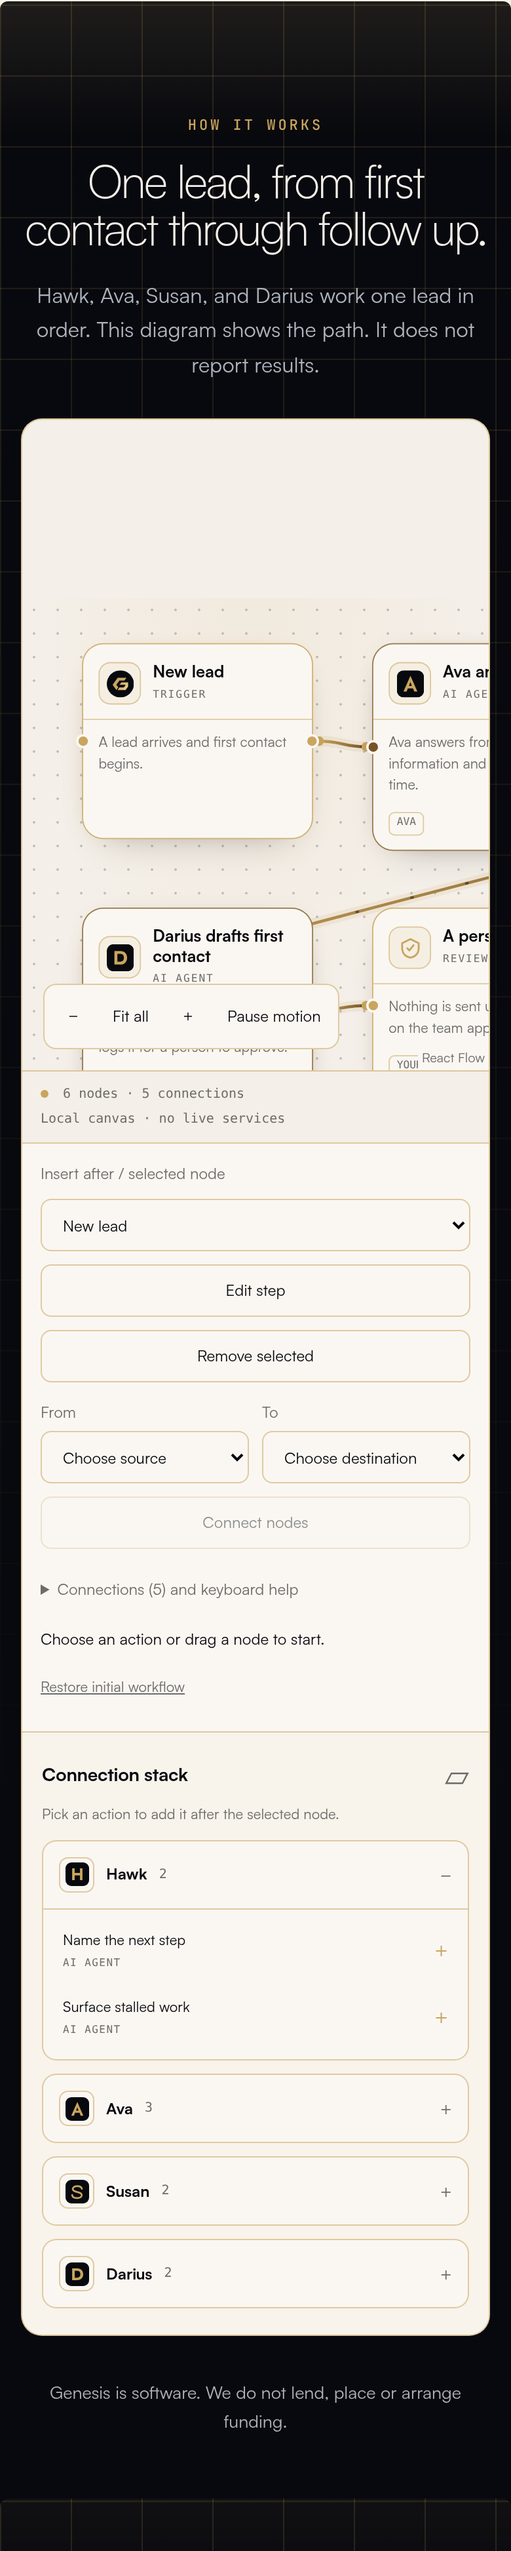
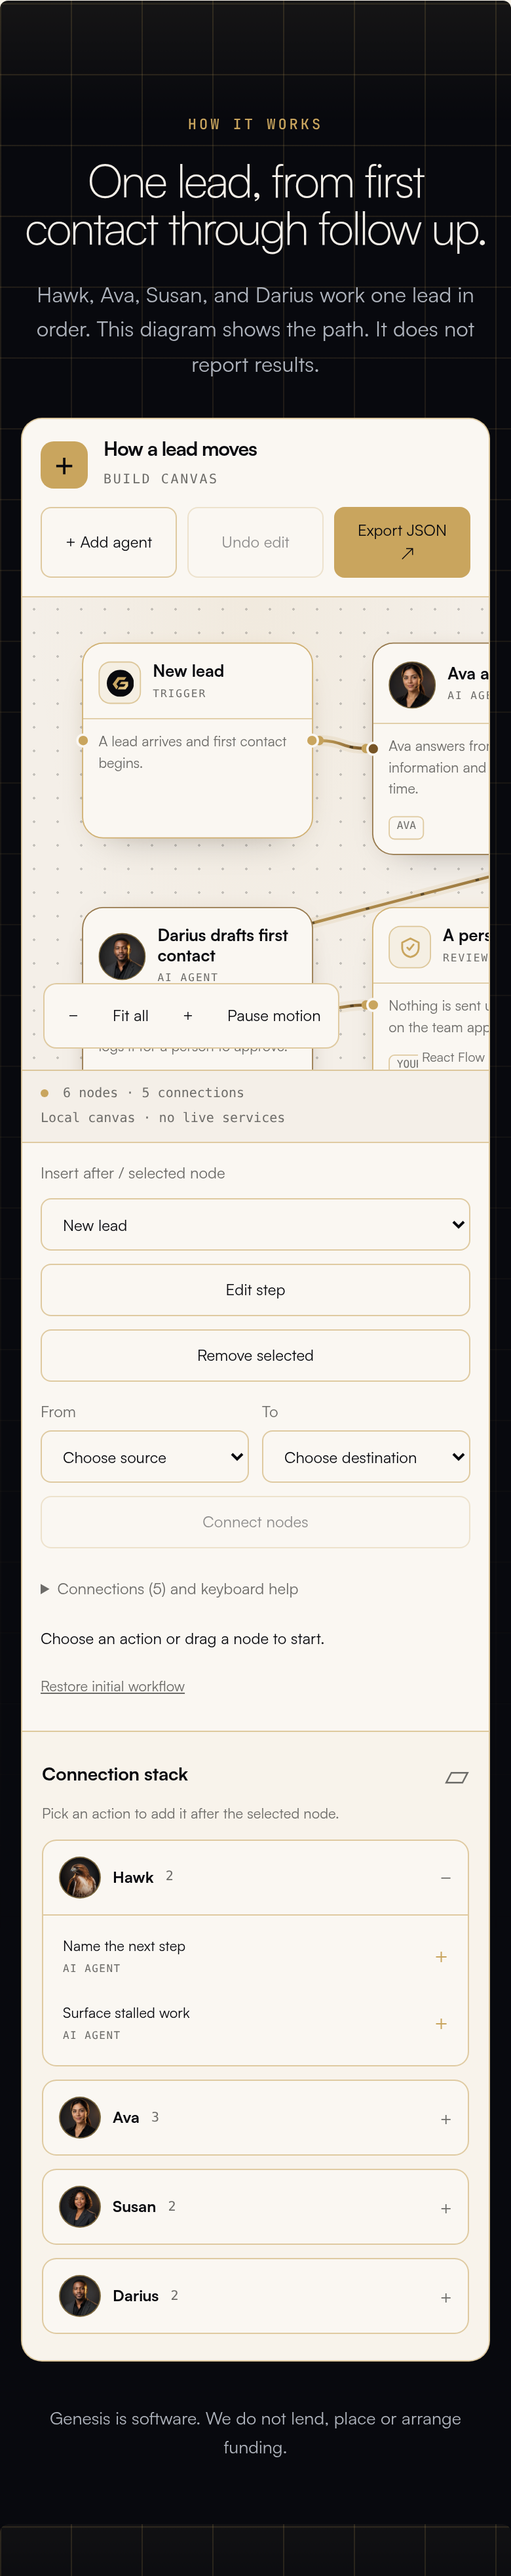
Show persona headshots on the lead workflow steps.
Replace the letter marks with round portraits of Hawk, Ava, Susan, and Darius, each with an accessible name. Shannon stays off this path because no step is hers.

diff --git a/components/ui/interactive-workflow-blueprint.tsx b/components/ui/interactive-workflow-blueprint.tsx
@@ -16,13 +16,16 @@ export interface WorkflowAction extends Record<string, unknown> {
   detail: string;
   kind: WorkflowKind;
   tool?: string;
-  /** Optional tool mark; it is decorative beside the text label. */
+  /** Optional tool mark beside the text label. */
   logo?: string;
+  /** Accessible name when the mark is a persona portrait. */
+  logoAlt?: string;
 }
 export interface WorkflowApp {
   id: string;
   name: string;
   logo?: string;
+  logoAlt?: string;
   actions: WorkflowAction[];
 }
 export type WorkflowNode = Node<WorkflowAction, "blueprint">;
@@ -52,12 +55,12 @@ const glyphs: Record<WorkflowKind, string> = {
   delivery: "M5 12h12M13 6l6 6-6 6",
 };
 
-function BrandMark({ src, fallback }: { src?: string; fallback: ReactNode }) {
+function BrandMark({ src, alt = "", fallback }: { src?: string; alt?: string; fallback: ReactNode }) {
   const [failed, setFailed] = useState(false);
   return src && !failed ? (
-    // Decorative beside the text label. A missing file falls back to the kind glyph.
+    // A portrait names the person. A plain mark stays decorative. A missing file falls back to the kind glyph.
     // eslint-disable-next-line @next/next/no-img-element
-    <img src={src} alt="" onError={() => setFailed(true)} />
+    <img src={src} alt={alt} className={alt ? "wb-avatar" : undefined} onError={() => setFailed(true)} />
   ) : fallback;
 }
 
@@ -65,7 +68,7 @@ function BlueprintNode({ data, selected }: NodeProps<WorkflowNode>) {
   return <div className="wb-node" data-kind={data.kind} data-selected={selected}>
     <Handle type="target" position={Position.Left} aria-label={`Input for ${data.label}`} />
     <div className="wb-node-head">
-      <span className="wb-glyph"><BrandMark key={data.logo} src={data.logo} fallback={<svg viewBox="0 0 24 24" fill="none" stroke="currentColor" strokeWidth="1.8" strokeLinecap="round" strokeLinejoin="round" aria-hidden="true"><path d={glyphs[data.kind]} /></svg>} /></span>
+      <span className="wb-glyph"><BrandMark key={data.logo} src={data.logo} alt={data.logoAlt} fallback={<svg viewBox="0 0 24 24" fill="none" stroke="currentColor" strokeWidth="1.8" strokeLinecap="round" strokeLinejoin="round" aria-hidden="true"><path d={glyphs[data.kind]} /></svg>} /></span>
       <div><strong>{data.label}</strong><small>{labels[data.kind]}</small></div>
     </div>
     <div className="wb-node-body"><p>{data.detail}</p>{data.tool && <span>{data.tool}</span>}</div>
@@ -323,8 +326,8 @@ export default function WorkflowBlueprint({ initialGraph, apps, title = "Workflo
         <div className="wb-stack-heading"><h3>Connection stack</h3><span aria-hidden="true">▱</span></div>
         <p>Pick an action to add it after the selected node.</p>
         {apps.map((app, index) => <details key={app.id} open={index === 0} className="wb-app">
-          <summary><span className="wb-app-mark" aria-hidden="true"><BrandMark key={app.logo} src={app.logo} fallback={app.name.slice(0, 1)} /></span><strong>{app.name}</strong><small>{app.actions.length}</small></summary>
-          <div className="wb-actions">{app.actions.map((action, i) => <button key={`${app.id}-${i}`} type="button" onClick={() => add({ ...action, logo: action.logo ?? app.logo })} disabled={graph.nodes.length >= 20} aria-label={`Add ${action.label} from ${app.name}`}><span>{action.label}<small>{labels[action.kind]}</small></span><b aria-hidden="true">+</b></button>)}</div>
+          <summary><span className="wb-app-mark" aria-hidden="true"><BrandMark key={app.logo} src={app.logo} alt={app.logoAlt} fallback={app.name.slice(0, 1)} /></span><strong>{app.name}</strong><small>{app.actions.length}</small></summary>
+          <div className="wb-actions">{app.actions.map((action, i) => <button key={`${app.id}-${i}`} type="button" onClick={() => add({ ...action, logo: action.logo ?? app.logo, logoAlt: action.logoAlt ?? app.logoAlt })} disabled={graph.nodes.length >= 20} aria-label={`Add ${action.label} from ${app.name}`}><span>{action.label}<small>{labels[action.kind]}</small></span><b aria-hidden="true">+</b></button>)}</div>
         </details>)}
       </aside>
     </div>
@@ -335,7 +338,7 @@ const styles = String.raw`
 .wb-root{--wb-bg:var(--color-background,Canvas);--wb-fg:var(--color-foreground,CanvasText);--wb-card:var(--color-card,Canvas);--wb-muted:var(--color-muted-foreground,GrayText);--wb-border:var(--color-border,GrayText);--wb-primary:var(--color-primary,Highlight);--wb-on-primary:var(--color-primary-foreground,HighlightText);--wb-secondary:var(--color-chart-2,var(--wb-primary));width:100%;min-width:0;border:1px solid var(--wb-border);border-radius:16px;overflow:hidden;background:var(--wb-bg);color:var(--wb-fg);font-size:14px;line-height:1.5;font-family:inherit;container-type:inline-size;box-sizing:border-box;text-align:left;isolation:isolate}
 .wb-root *{box-sizing:border-box}.wb-root button,.wb-root select{font:inherit;color:inherit}.wb-root button{cursor:pointer}.wb-root button:disabled{opacity:.45;cursor:not-allowed}.wb-root button,.wb-root select{border:1px solid var(--wb-border);border-radius:8px;background:var(--wb-card);min-height:40px;padding:8px 12px}.wb-root button:hover:enabled{background:color-mix(in srgb,var(--wb-primary) 12%,var(--wb-card))}.wb-root :is(button,select,summary):focus-visible{outline:3px solid var(--wb-primary);outline-offset:3px}.wb-root .wb-primary{background:var(--wb-primary);color:var(--wb-on-primary);border-color:var(--wb-primary)}.wb-root .wb-primary:hover{background:var(--wb-primary);filter:brightness(1.08)}
 .wb-header{display:flex;align-items:center;gap:12px;padding:18px 20px;border-bottom:1px solid var(--wb-border);background:var(--wb-card)}.wb-mark{display:grid;place-items:center;width:36px;height:36px;border-radius:10px;background:var(--wb-primary);color:var(--wb-on-primary);font:26px/1 system-ui}.wb-heading{flex:1;min-width:0}.wb-heading h2{font-size:16px;line-height:1.25;font-weight:650;margin:0}.wb-heading>span{font:10px/1.7 ui-monospace,monospace;letter-spacing:.13em;text-transform:uppercase;color:var(--wb-muted)}.wb-header-actions{display:flex;gap:8px;font-size:12px}.wb-header-actions span{margin-left:8px}.wb-workspace{display:grid;grid-template-columns:minmax(0,1fr) 254px}.wb-canvas-column{min-width:0}.wb-canvas{position:relative;height:460px;background-image:radial-gradient(color-mix(in srgb,var(--wb-muted) 36%,transparent) 1px,transparent 1px),radial-gradient(ellipse at 50% 0%,color-mix(in srgb,var(--wb-primary) 7%,transparent),transparent 68%);background-size:18px 18px,100% 100%}.wb-root .react-flow{background:transparent;--xy-attribution-background-color:var(--wb-card);--xy-edge-stroke:var(--wb-primary);--xy-connectionline-stroke:var(--wb-primary)}.wb-root .react-flow__attribution a{color:var(--wb-muted);background:var(--wb-card)}.wb-root .react-flow__node:focus-visible{outline:3px solid var(--wb-primary);outline-offset:7px;border-radius:18px}.wb-root .react-flow__node{background:none;border:none;padding:0}.wb-node{width:196px;min-height:166px;border:1px solid color-mix(in srgb,var(--wb-primary) 60%,var(--wb-border));border-radius:18px;background:var(--wb-card);box-shadow:0 14px 32px -20px color-mix(in srgb,var(--wb-fg) 30%,transparent);color:var(--wb-fg);position:relative}.wb-node[data-kind=agent],.wb-node[data-kind=review]{--wb-node-accent:var(--color-chart-3,var(--wb-primary))}.wb-node[data-kind=integration]{--wb-node-accent:var(--color-chart-2,var(--wb-primary))}.wb-node[data-selected=true]{outline:2px solid var(--wb-primary);outline-offset:4px}.wb-node-head{padding:15px 13px 12px;display:flex;gap:10px;align-items:center}.wb-node-head strong{font-size:14px;line-height:1.2;display:block;font-weight:650;overflow-wrap:anywhere}.wb-node-head small{font:9px/1.5 ui-monospace,monospace;letter-spacing:.12em;text-transform:uppercase;color:var(--wb-muted);display:block;margin-top:5px}.wb-glyph{display:grid;place-items:center;flex:0 0 36px;height:36px;border:1px solid var(--wb-border);border-radius:10px;background:color-mix(in srgb,var(--wb-primary) 10%,var(--wb-card));color:var(--wb-node-accent,var(--wb-primary))}.wb-glyph svg{width:21px;height:21px}.wb-node-body{padding:10px 13px 12px;border-top:1px solid var(--wb-border)}.wb-node-body p{font-size:12px;line-height:1.5;color:var(--wb-muted);margin:0 0 9px;overflow-wrap:anywhere}.wb-node-body>span{display:inline-block;border:1px solid var(--wb-border);border-radius:5px;padding:2px 6px;color:var(--wb-muted);font:9px/1.5 ui-monospace,monospace;text-transform:uppercase}.wb-root .react-flow__handle{width:12px;height:12px;min-width:12px;min-height:12px;border:2px solid var(--wb-card);background:var(--wb-node-accent,var(--wb-primary))}.wb-root .react-flow__handle:hover{outline:3px solid color-mix(in srgb,var(--wb-primary) 30%,transparent)}.wb-edge-halo{fill:none;stroke:color-mix(in srgb,var(--wb-primary) 13%,transparent);stroke-width:9}.wb-edge{fill:none;stroke-width:2.5}.wb-edge-pulse{fill:none;stroke:var(--wb-fg);stroke-opacity:.45;stroke-width:2;stroke-dasharray:3 45;animation:wb-travel 6s linear infinite}.wb-port{fill:var(--wb-primary)}@keyframes wb-travel{to{stroke-dashoffset:-192}}.wb-root[data-animated=false] .wb-edge-pulse{animation:none}.wb-root .react-flow__edge.selected .wb-edge{stroke-width:5}.wb-root .react-flow__edge:focus-visible{outline:none}.wb-root .react-flow__edge:focus-visible .wb-edge{stroke-width:5;filter:drop-shadow(0 0 3px var(--wb-primary))}.wb-empty{position:absolute;inset:40% 20px auto;text-align:center;color:var(--wb-muted);pointer-events:none}.wb-tools{position:absolute;left:16px;bottom:16px;display:flex;gap:3px;padding:4px;border:1px solid var(--wb-border);border-radius:10px;background:var(--wb-card)}.wb-tools button{border:0;min-width:36px;padding:6px 9px;font-size:12px}.wb-status{display:flex;justify-content:space-between;gap:12px;border-top:1px solid var(--wb-border);padding:11px 18px;color:var(--wb-muted);font:10px/1.5 ui-monospace,monospace}.wb-status i{display:inline-block;width:6px;height:6px;border-radius:50%;background:var(--wb-primary);margin-right:5px}.wb-editor{padding:18px;border-top:1px solid var(--wb-border);background:var(--wb-card);font-size:12px}.wb-edit-row{display:flex;align-items:center;gap:10px;flex-wrap:wrap}.wb-edit-row>label{color:var(--wb-muted)}.wb-edit-row select{flex:1;min-width:120px;max-width:100%}.wb-connect{display:flex;gap:10px;align-items:end;margin-top:14px}.wb-connect label{flex:1;min-width:0;color:var(--wb-muted);display:grid;gap:5px}.wb-connect select{width:100%;min-width:0;color:var(--wb-fg)}.wb-connect>span{align-self:center;padding-top:19px;color:var(--wb-muted)}.wb-connect button{white-space:nowrap}.wb-details{margin-top:16px}.wb-details summary{cursor:pointer;color:var(--wb-muted);padding:6px 0}.wb-details p{line-height:1.7;max-width:65ch;color:var(--wb-muted)}.wb-details ul{list-style:none;padding:0;margin:8px 0}.wb-details li{display:flex;justify-content:space-between;gap:12px;align-items:center;border-top:1px solid var(--wb-border);padding:7px 0}.wb-details li span{overflow-wrap:anywhere}.wb-details li button{font-size:11px;padding:5px 9px}.wb-message{margin:14px 0 7px;min-height:1.5em;color:var(--wb-fg)}.wb-root .wb-reset{border:0;background:none;text-decoration:underline;color:var(--wb-muted);padding:6px 0;font-size:11px}.wb-stack{border-left:1px solid var(--wb-border);background:color-mix(in srgb,var(--wb-card) 95%,var(--wb-primary));padding:20px 15px;min-width:0}.wb-stack-heading{display:flex;align-items:center;justify-content:space-between}.wb-stack h3{font-size:14px;letter-spacing:-.01em;margin:0;font-weight:650}.wb-stack-heading>span{color:var(--wb-muted);font-size:24px;line-height:1}.wb-stack>p{font-size:11px;line-height:1.6;color:var(--wb-muted);margin:8px 0 19px}.wb-app{border:1px solid var(--wb-border);border-radius:11px;background:var(--wb-card);margin-top:9px;overflow:hidden}.wb-app summary{list-style:none;display:flex;gap:9px;align-items:center;padding:12px;cursor:pointer}.wb-app summary::-webkit-details-marker{display:none}.wb-app summary:after{content:'+';margin-left:auto;color:var(--wb-muted)}.wb-app[open] summary:after{content:'−'}.wb-app summary strong{font-size:12px;font-weight:600}.wb-app summary small{font:10px ui-monospace,monospace;color:var(--wb-muted)}.wb-app-mark{display:grid;place-items:center;width:27px;height:27px;border-radius:7px;border:1px solid var(--wb-border);color:var(--wb-primary);font-size:13px;font-weight:700}.wb-actions{border-top:1px solid var(--wb-border);padding:6px}.wb-actions button{display:flex;align-items:center;gap:12px;width:100%;text-align:left;font-size:11px;border:0;border-radius:6px;padding:9px;background:none}.wb-actions button>span{flex:1}.wb-actions small{display:block;font:8px/1.7 ui-monospace,monospace;text-transform:uppercase;letter-spacing:.09em;color:var(--wb-muted);margin-top:3px}.wb-actions b{font-size:16px;font-weight:400;color:var(--wb-primary)}
-.wb-header-actions{flex-wrap:wrap}.wb-node{border-color:color-mix(in srgb,var(--wb-node-accent,var(--wb-primary)) 68%,var(--wb-border));box-shadow:0 14px 32px -20px color-mix(in srgb,var(--wb-fg) 32%,transparent),0 0 26px -21px var(--wb-node-accent,var(--wb-primary))}.wb-node[data-kind=agent]{--wb-node-accent:var(--color-chart-2,var(--wb-primary))}.wb-node[data-kind=integration],.wb-node[data-kind=review]{--wb-node-accent:var(--color-chart-3,var(--wb-primary))}.wb-glyph img{width:23px;height:23px;object-fit:contain}.wb-app-mark img{width:18px;height:18px;object-fit:contain}.wb-step-form{display:grid;gap:12px;margin-top:14px;padding:14px;border:1px solid var(--wb-border);border-radius:10px;background:var(--wb-bg)}.wb-step-form label{display:grid;gap:5px;color:var(--wb-muted)}.wb-step-form input,.wb-step-form textarea{width:100%;min-width:0;min-height:40px;padding:9px 10px;border:1px solid var(--wb-border);border-radius:8px;background:var(--wb-card);color:var(--wb-fg);font:inherit;resize:vertical}.wb-step-form :is(input,textarea):focus-visible{outline:3px solid var(--wb-primary);outline-offset:2px}.wb-step-form>div{display:flex;gap:8px;flex-wrap:wrap}
+.wb-header-actions{flex-wrap:wrap}.wb-node{border-color:color-mix(in srgb,var(--wb-node-accent,var(--wb-primary)) 68%,var(--wb-border));box-shadow:0 14px 32px -20px color-mix(in srgb,var(--wb-fg) 32%,transparent),0 0 26px -21px var(--wb-node-accent,var(--wb-primary))}.wb-node[data-kind=agent]{--wb-node-accent:var(--color-chart-2,var(--wb-primary))}.wb-node[data-kind=integration],.wb-node[data-kind=review]{--wb-node-accent:var(--color-chart-3,var(--wb-primary))}.wb-glyph img:not(.wb-avatar){width:23px;height:23px;object-fit:contain}.wb-app-mark img:not(.wb-avatar){width:18px;height:18px;object-fit:contain}.wb-glyph:has(.wb-avatar){flex:0 0 40px;width:40px;height:40px;border-radius:50%;overflow:hidden;background:#141414}.wb-app-mark:has(.wb-avatar){width:32px;height:32px;border-radius:50%;overflow:hidden;background:#141414}.wb-avatar{width:100%;height:100%;object-fit:cover;display:block}.wb-step-form{display:grid;gap:12px;margin-top:14px;padding:14px;border:1px solid var(--wb-border);border-radius:10px;background:var(--wb-bg)}.wb-step-form label{display:grid;gap:5px;color:var(--wb-muted)}.wb-step-form input,.wb-step-form textarea{width:100%;min-width:0;min-height:40px;padding:9px 10px;border:1px solid var(--wb-border);border-radius:8px;background:var(--wb-card);color:var(--wb-fg);font:inherit;resize:vertical}.wb-step-form :is(input,textarea):focus-visible{outline:3px solid var(--wb-primary);outline-offset:2px}.wb-step-form>div{display:flex;gap:8px;flex-wrap:wrap}
 @container(max-width:1050px){.wb-workspace{grid-template-columns:1fr}.wb-stack{border-left:0;border-top:1px solid var(--wb-border);display:grid;grid-template-columns:repeat(2,minmax(0,1fr));gap:10px;align-items:start}.wb-stack-heading,.wb-stack>p{grid-column:1/-1}.wb-stack>p{margin:0}.wb-app{margin:0}.wb-canvas{height:410px}}
 @container(max-width:480px){.wb-header{padding:14px;flex-wrap:wrap}.wb-header-actions{width:100%;justify-content:flex-end}.wb-header-actions button{flex:1}.wb-canvas{height:360px}.wb-status{flex-wrap:wrap;padding:10px 14px;gap:4px}.wb-editor{padding:14px}.wb-edit-row{display:grid;grid-template-columns:1fr}.wb-edit-row select{width:100%}.wb-connect{flex-wrap:wrap}.wb-connect label{flex:1 1 40%}.wb-connect>span{display:none}.wb-connect button{width:100%}.wb-stack{grid-template-columns:1fr}.wb-stack-heading,.wb-stack>p{grid-column:auto}.wb-details li{align-items:start}.wb-heading h2{font-size:15px}}
 .wb-root .react-flow__pane,.wb-root .react-flow__node,.wb-root .react-flow__renderer{touch-action:none}

diff --git a/lib/leadWorkflow.ts b/lib/leadWorkflow.ts
@@ -16,10 +16,15 @@ export const leadWorkflowIntro = {
 } as const;
 
 const lead = "/brand/genesis-icon.svg";
-const hawk = "/brand/workflow/hawk.svg";
-const ava = "/brand/workflow/ava.svg";
-const susan = "/brand/workflow/susan.svg";
-const darius = "/brand/workflow/darius.svg";
+/** Persona portraits, 160px square. Ava is Speed to Lead. Shannon has no step on this path. */
+const hawk = "/brand/workflow/hawk.webp";
+const ava = "/brand/workflow/ava.webp";
+const susan = "/brand/workflow/susan.webp";
+const darius = "/brand/workflow/darius.webp";
+const hawkAlt = "Hawk, operations";
+const avaAlt = "Ava, Speed to Lead";
+const susanAlt = "Susan, marketing";
+const dariusAlt = "Darius, sales and prospecting";
 
 export const leadWorkflowGraph: WorkflowGraph = {
   nodes: [
@@ -44,6 +49,7 @@ export const leadWorkflowGraph: WorkflowGraph = {
         kind: "agent",
         tool: "Ava",
         logo: ava,
+        logoAlt: avaAlt,
       },
     },
     {
@@ -56,6 +62,7 @@ export const leadWorkflowGraph: WorkflowGraph = {
         kind: "agent",
         tool: "Hawk",
         logo: hawk,
+        logoAlt: hawkAlt,
       },
     },
     {
@@ -68,6 +75,7 @@ export const leadWorkflowGraph: WorkflowGraph = {
         kind: "agent",
         tool: "Darius",
         logo: darius,
+        logoAlt: dariusAlt,
       },
     },
     {
@@ -91,6 +99,7 @@ export const leadWorkflowGraph: WorkflowGraph = {
         kind: "delivery",
         tool: "Susan",
         logo: susan,
+        logoAlt: susanAlt,
       },
     },
   ],
@@ -108,6 +117,7 @@ export const leadWorkflowApps: WorkflowApp[] = [
     id: "hawk",
     name: "Hawk",
     logo: hawk,
+    logoAlt: hawkAlt,
     actions: [
       {
         label: "Name the next step",
@@ -127,6 +137,7 @@ export const leadWorkflowApps: WorkflowApp[] = [
     id: "ava",
     name: "Ava",
     logo: ava,
+    logoAlt: avaAlt,
     actions: [
       {
         label: "Answer a question",
@@ -152,6 +163,7 @@ export const leadWorkflowApps: WorkflowApp[] = [
     id: "susan",
     name: "Susan",
     logo: susan,
+    logoAlt: susanAlt,
     actions: [
       {
         label: "Draft a message",
@@ -171,6 +183,7 @@ export const leadWorkflowApps: WorkflowApp[] = [
     id: "darius",
     name: "Darius",
     logo: darius,
+    logoAlt: dariusAlt,
     actions: [
       {
         label: "Draft first contact",

diff --git a/tests/lead-workflow.test.ts b/tests/lead-workflow.test.ts
@@ -35,7 +35,7 @@ test("the lead diagram is an illustration with no dashes, emoji, stats, or outsi
   assert.match(blob, /follow up/);
 });
 
-test("employee marks are local icons and the path runs from the lead to follow up", () => {
+test("employee portraits are local headshots and the path runs from the lead to follow up", () => {
   const logos = [
     ...leadWorkflowGraph.nodes.map((node) => node.data.logo),
     ...leadWorkflowApps.map((app) => app.logo),
@@ -45,6 +45,28 @@ test("employee marks are local icons and the path runs from the lead to follow u
   for (const logo of logos) {
     assert.equal(logo.startsWith("/brand/"), true, logo);
     assert.equal(logo.startsWith("http"), false, logo);
+  }
+
+  const byId = Object.fromEntries(leadWorkflowGraph.nodes.map((node) => [node.id, node.data]));
+  assert.deepEqual(
+    [byId.ava, byId.hawk, byId.darius, byId.susan].map((step) => [step.logo, step.logoAlt]),
+    [
+      ["/brand/workflow/ava.webp", "Ava, Speed to Lead"],
+      ["/brand/workflow/hawk.webp", "Hawk, operations"],
+      ["/brand/workflow/darius.webp", "Darius, sales and prospecting"],
+      ["/brand/workflow/susan.webp", "Susan, marketing"],
+    ],
+  );
+  assert.equal(byId.lead.logoAlt, undefined);
+  assert.equal(byId.approve.logo, undefined);
+  for (const app of leadWorkflowApps) {
+    assert.equal(app.logo?.endsWith(".webp"), true, app.name);
+    assert.ok(app.logoAlt?.startsWith(app.name), app.name);
+  }
+  const serialized = JSON.stringify({ leadWorkflowGraph, leadWorkflowApps });
+  assert.equal(serialized.includes("shannon"), false);
+  for (const logo of logos) {
+    if (logo.includes("/workflow/")) assert.equal(logo.endsWith(".webp"), true, logo);
   }
 
   assert.deepEqual(
